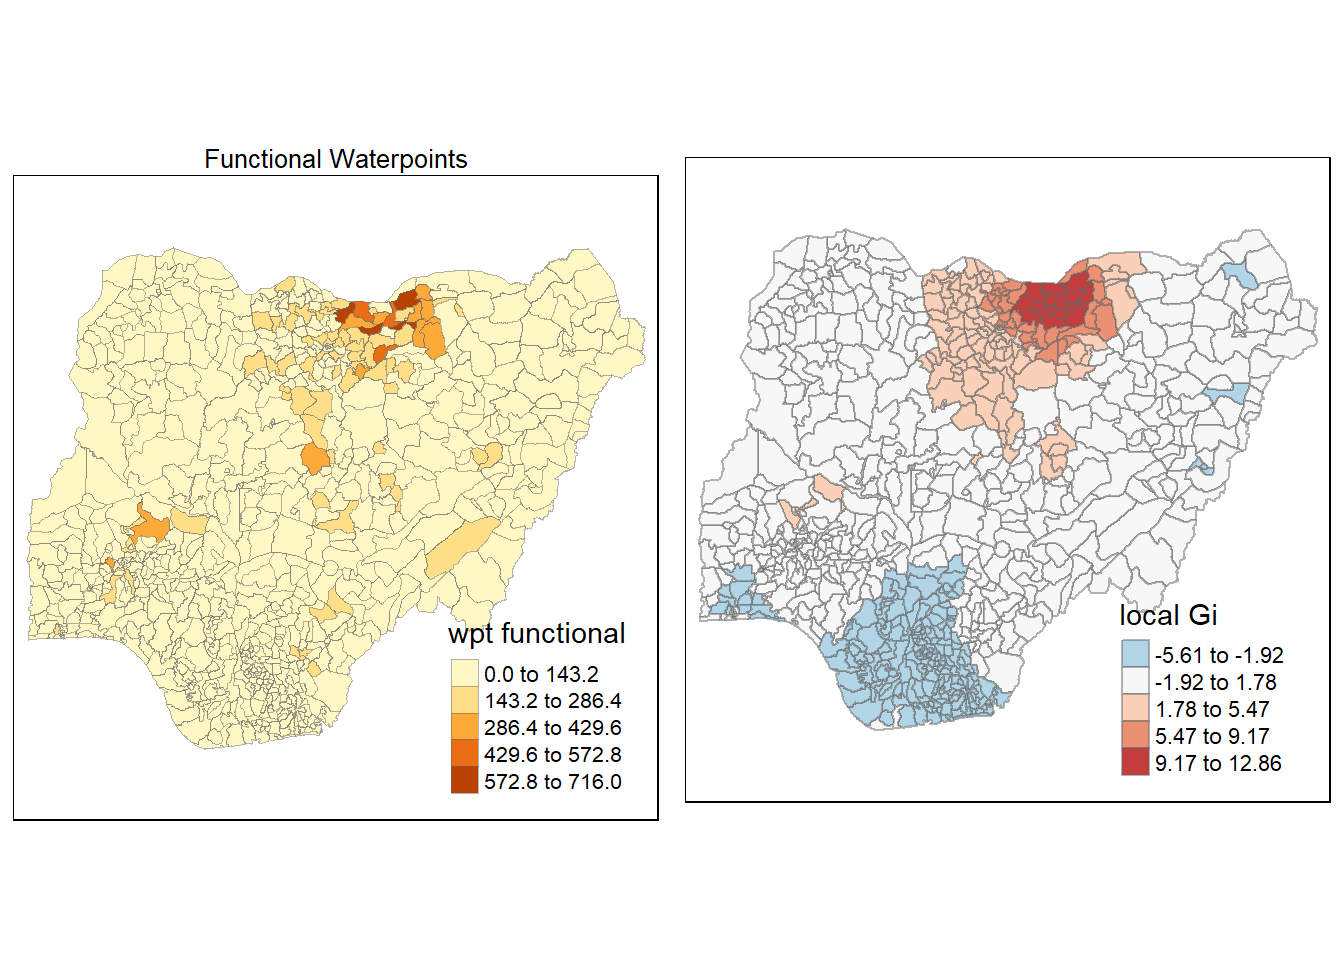
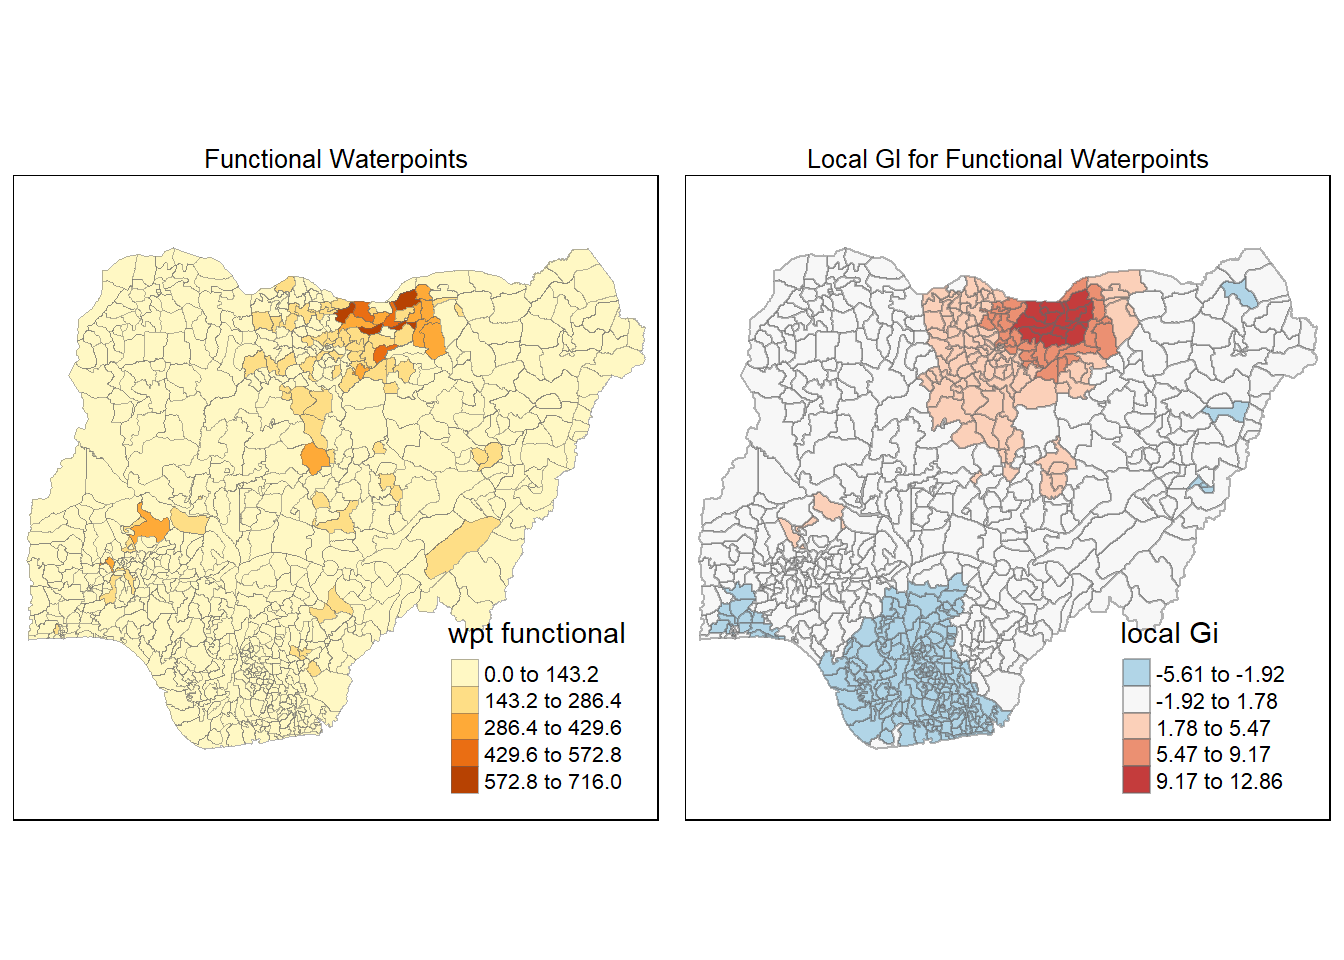
added data section to reflect source of data

Changed region(s): [[0.5, 0.25, 1.0, 0.8438], [0.5938, 0.1562, 0.9062, 0.1875]]

diff --git a/_site/Take-home_Ex/Take-home_Ex1.html b/_site/Take-home_Ex/Take-home_Ex1.html
@@ -200,9 +200,16 @@ code span.wa { color: #60a0b0; font-weight: bold; font-style: italic; } /* Warni
     <h2 id="toc-title">On this page</h2>
    
   <ul>
-  <li><a href="#overview" id="toc-overview" class="nav-link active" data-scroll-target="#overview">1.1 Overview</a></li>
+  <li><a href="#overview" id="toc-overview" class="nav-link active" data-scroll-target="#overview">1.1 Overview</a>
+  <ul class="collapse">
+  <li><a href="#the-data" id="toc-the-data" class="nav-link" data-scroll-target="#the-data">1.1.1 The Data</a></li>
+  <li><a href="#the-task" id="toc-the-task" class="nav-link" data-scroll-target="#the-task"><strong>1.1.2 The Task</strong></a></li>
+  <li><a href="#thematic-mapping" id="toc-thematic-mapping" class="nav-link" data-scroll-target="#thematic-mapping"><strong>1.1.3 Thematic Mapping</strong></a></li>
+  <li><a href="#analytical-mapping" id="toc-analytical-mapping" class="nav-link" data-scroll-target="#analytical-mapping"><strong>1.1.4 Analytical Mapping</strong></a></li>
+  <li><a href="#grading-criteria" id="toc-grading-criteria" class="nav-link" data-scroll-target="#grading-criteria"><strong>1.1.5 Grading Criteria</strong></a></li>
+  </ul></li>
   <li><a href="#getting-started" id="toc-getting-started" class="nav-link" data-scroll-target="#getting-started">1.2 Getting Started</a></li>
-  <li><a href="#importing-geospatial-data" id="toc-importing-geospatial-data" class="nav-link" data-scroll-target="#importing-geospatial-data">1.3 Importing Geospatial Data</a>
+  <li><a href="#downloading-and-importing-geospatial-data" id="toc-downloading-and-importing-geospatial-data" class="nav-link" data-scroll-target="#downloading-and-importing-geospatial-data">1.3 Downloading and Importing Geospatial Data</a>
   <ul class="collapse">
   <li><a href="#importing-water-point-geospatial-data" id="toc-importing-water-point-geospatial-data" class="nav-link" data-scroll-target="#importing-water-point-geospatial-data">1.3.1 Importing water point geospatial data</a></li>
   <li><a href="#importing-nigeria-lga-boundary-data" id="toc-importing-nigeria-lga-boundary-data" class="nav-link" data-scroll-target="#importing-nigeria-lga-boundary-data">1.3.2 Importing Nigeria LGA boundary data</a></li>
@@ -224,7 +231,7 @@ code span.wa { color: #60a0b0; font-weight: bold; font-style: italic; } /* Warni
   </ul></li>
   <li><a href="#proportion-of-functional-and-non-functional-water-point-at-lga-level." id="toc-proportion-of-functional-and-non-functional-water-point-at-lga-level." class="nav-link" data-scroll-target="#proportion-of-functional-and-non-functional-water-point-at-lga-level.">2 Proportion of functional and non-functional water point at LGA level.</a></li>
   <li><a href="#visualizing-the-spatial-distribution-of-water-points" id="toc-visualizing-the-spatial-distribution-of-water-points" class="nav-link" data-scroll-target="#visualizing-the-spatial-distribution-of-water-points">3 Visualizing the spatial distribution of water points</a></li>
-  <li><a href="#thematic-mapping" id="toc-thematic-mapping" class="nav-link" data-scroll-target="#thematic-mapping">3.1 Thematic Mapping</a></li>
+  <li><a href="#thematic-mapping-1" id="toc-thematic-mapping-1" class="nav-link" data-scroll-target="#thematic-mapping-1">3.1 Thematic Mapping</a></li>
   <li><a href="#global-spatial-autocorrelation" id="toc-global-spatial-autocorrelation" class="nav-link" data-scroll-target="#global-spatial-autocorrelation">4.4 Global Spatial Autocorrelation</a>
   <ul class="collapse">
   <li><a href="#computing-contiguity-spatial-weights" id="toc-computing-contiguity-spatial-weights" class="nav-link" data-scroll-target="#computing-contiguity-spatial-weights">4.4.1 Computing Contiguity Spatial Weights</a></li>
@@ -288,7 +295,52 @@ code span.wa { color: #60a0b0; font-weight: bold; font-style: italic; } /* Warni
 
 <section id="overview" class="level2">
 <h2 class="anchored" data-anchor-id="overview">1.1 Overview</h2>
-<p>Geospatial analytics hold tremendous potential to address complex problems facing society. In this study, you are tasked to apply appropriate global and local measures of spatial Association techniques to reveals the spatial patterns of Not Functional water points. For the purpose of this study, Nigeria will be used as the study country.</p>
+<p>Geospatial analytics hold tremendous potential to address complex problems facing society. In this study, you are tasked to apply appropriate global and local measures of spatial Association techniques to reveals the spatial patterns of Functional &amp; Not Functional water points. For the purpose of this study, Nigeria will be used as the study country.</p>
+<section id="the-data" class="level3">
+<h3 class="anchored" data-anchor-id="the-data">1.1.1 The Data</h3>
+<section id="apstial-data" class="level4">
+<h4 class="anchored" data-anchor-id="apstial-data">1.1.1.1 Apstial data</h4>
+<p>For the purpose of this assignment, data from <a href="https://www.waterpointdata.org/access-data/">WPdx Global Data Repositories</a> will be used. There are two versions of the data. They are: WPdx-Basic and WPdx+. You are required to use WPdx+ data set. We will rename this file to “geo_export”.</p>
+</section>
+<section id="geospatial-data" class="level4">
+<h4 class="anchored" data-anchor-id="geospatial-data">1.1.1.2 Geospatial data</h4>
+<p>Nigeria Level-2 Administrative Boundary (also known as Local Government Area) polygon features GIS data will be used in this take-home exercise. The data can be downloaded either from The <a href="https://data.humdata.org/">Humanitarian Data Exchange</a> portal or <a href="https://www.geoboundaries.org/">geoBoundaries</a>. We will use the file “nga_polnda_adm2_1m_salb”.</p>
+</section>
+</section>
+<section id="the-task" class="level3">
+<h3 class="anchored" data-anchor-id="the-task"><strong>1.1.2 The Task</strong></h3>
+<p>The specific tasks of this take-home exercise are as follows:</p>
+<ul>
+<li><p>Using appropriate sf method, import the shapefile into R and save it in a simple feature data frame format. Note that there are three Projected Coordinate Systems of Nigeria, they are: EPSG: 26391, 26392, and 26303. You can use any one of them.</p></li>
+<li><p>Using appropriate tidyr and dplyr methods, derive the proportion of functional and non-functional water point at LGA level.</p></li>
+<li><p>Combining the geospatial and aspatial data frame into simple feature data frame.</p></li>
+<li><p>Performing outliers/clusters analysis by using appropriate local measures of spatial association methods.</p></li>
+<li><p>Performing hotspot areas analysis by using appropriate local measures of spatial association methods.</p></li>
+</ul>
+</section>
+<section id="thematic-mapping" class="level3">
+<h3 class="anchored" data-anchor-id="thematic-mapping"><strong>1.1.3 Thematic Mapping</strong></h3>
+<ul>
+<li>Plot maps to show the spatial distribution of functional and non-functional water point rate at LGA level by using appropriate thematic mapping technique provided by tmap package.</li>
+</ul>
+</section>
+<section id="analytical-mapping" class="level3">
+<h3 class="anchored" data-anchor-id="analytical-mapping"><strong>1.1.4 Analytical Mapping</strong></h3>
+<ul>
+<li>Plot hotspot areas and outliers/clusters maps of functional and non-functional water point rate at LGA level by using appropriate thematic mapping technique provided by tmap package.</li>
+</ul>
+</section>
+<section id="grading-criteria" class="level3">
+<h3 class="anchored" data-anchor-id="grading-criteria"><strong>1.1.5 Grading Criteria</strong></h3>
+<p>This exercise will be graded by using the following criteria:</p>
+<ul>
+<li><p><strong>Geospatial Data Wrangling (20 marks):</strong> This is an important aspect of geospatial analytics. You will be assessed on your ability to employ appropriate R functions from various R packages specifically designed for modern data science such as readr, tidyverse (tidyr, dplyr, ggplot2), sf just to mention a few of them, to perform the entire geospatial data wrangling processes, including. This is not limited to data import, data extraction, data cleaning and data transformation. Besides assessing your ability to use the R functions, this criterion also includes your ability to clean and derive appropriate variables to meet the analysis need. (Warning: All data are like vast grassland full of land mines. Your job is to clear those mines and not to step on them).</p></li>
+<li><p><strong>Geospatial Analysis (25 marks):</strong> In this exercise, you are expected to use the appropriate thematic and analytics mapping techniques and R functions introduced in class to analyse the geospatial data prepared. You will be assessed on your ability to derive analytical maps by using appropriate rate mapping techniques.</p></li>
+<li><p><strong>Geovisualisation and Geocommunication (25 marks):</strong> In this section, you will be assessed on your ability to communicate the complex spatial statistics results in business friendly visual representations. This course is geospatial centric, hence, it is important for you to demonstrate your competency in using appropriate. geovisualisation techniques to reveal and communicate the findings of your analysis.</p></li>
+<li><p><strong>Reproducibility (20 marks):</strong> This is an important learning outcome of this exercise. You will be assessed on your ability to provide a comprehensive documentation of the analysis procedures in the form of code chunks of Markdown. It is important to note that it is not enough by merely providing the code chunk without any explanation on the purpose and R function(s) used.</p></li>
+<li><p><strong>Bonus (10 marks):</strong> Demonstrate your ability to employ methods beyond what you had learned in class to gain insights from the data. The methods used must be geospatial in nature.</p></li>
+</ul>
+</section>
 </section>
 <section id="getting-started" class="level2">
 <h2 class="anchored" data-anchor-id="getting-started">1.2 Getting Started</h2>
@@ -304,8 +356,8 @@ code span.wa { color: #60a0b0; font-weight: bold; font-style: italic; } /* Warni
 <div class="sourceCode cell-code" id="cb1"><pre class="sourceCode r code-with-copy"><code class="sourceCode r"><span id="cb1-1"><a href="#cb1-1" aria-hidden="true" tabindex="-1"></a>pacman<span class="sc">::</span><span class="fu">p_load</span>(sf, spdep, tmap, tidyverse, tmap, funModeling)</span></code><button title="Copy to Clipboard" class="code-copy-button"><i class="bi"></i></button></pre></div>
 </div>
 </section>
-<section id="importing-geospatial-data" class="level2">
-<h2 class="anchored" data-anchor-id="importing-geospatial-data">1.3 Importing Geospatial Data</h2>
+<section id="downloading-and-importing-geospatial-data" class="level2">
+<h2 class="anchored" data-anchor-id="downloading-and-importing-geospatial-data">1.3 Downloading and Importing Geospatial Data</h2>
 <p>In this in-class data, two geospatial data sets will be used, they are:</p>
 <ul>
 <li><p>geo_export</p></li>
@@ -580,8 +632,8 @@ First 10 features:
 <section id="visualizing-the-spatial-distribution-of-water-points" class="level2">
 <h2 class="anchored" data-anchor-id="visualizing-the-spatial-distribution-of-water-points">3 Visualizing the spatial distribution of water points</h2>
 </section>
-<section id="thematic-mapping" class="level2">
-<h2 class="anchored" data-anchor-id="thematic-mapping">3.1 Thematic Mapping</h2>
+<section id="thematic-mapping-1" class="level2">
+<h2 class="anchored" data-anchor-id="thematic-mapping-1">3.1 Thematic Mapping</h2>
 <p>Maps are plotted to show the spatial distribution of functional and non-functional water point rate at LGA level by using appropriate thematic mapping technique provided by tmap package.</p>
 <p>To draw a high quality cartographic choropleth map as shown in the figure below, <strong>tmap</strong>’s drawing elements should be used.</p>
 <p>In the code chunk below, the following <em>tmap’s drawing elements are used:</em></p>
@@ -3620,9 +3672,14 @@ attr(,"class")
 <span id="cb110-5"><a href="#cb110-5" aria-hidden="true" tabindex="-1"></a>          <span class="at">style =</span> <span class="st">"equal"</span>,</span>
 <span id="cb110-6"><a href="#cb110-6" aria-hidden="true" tabindex="-1"></a>          <span class="at">palette=</span><span class="st">"-RdBu"</span>,</span>
 <span id="cb110-7"><a href="#cb110-7" aria-hidden="true" tabindex="-1"></a>          <span class="at">title =</span> <span class="st">"local Gi"</span>) <span class="sc">+</span></span>
-<span id="cb110-8"><a href="#cb110-8" aria-hidden="true" tabindex="-1"></a>  <span class="fu">tm_borders</span>(<span class="at">alpha =</span> <span class="fl">0.5</span>)</span>
-<span id="cb110-9"><a href="#cb110-9" aria-hidden="true" tabindex="-1"></a></span>
-<span id="cb110-10"><a href="#cb110-10" aria-hidden="true" tabindex="-1"></a><span class="fu">tmap_arrange</span>(f_wpt_plot, Gimap, <span class="at">asp=</span><span class="dv">1</span>, <span class="at">ncol=</span><span class="dv">2</span>)</span></code><button title="Copy to Clipboard" class="code-copy-button"><i class="bi"></i></button></pre></div>
+<span id="cb110-8"><a href="#cb110-8" aria-hidden="true" tabindex="-1"></a>  <span class="fu">tm_borders</span>(<span class="at">alpha =</span> <span class="fl">0.5</span>) <span class="sc">+</span></span>
+<span id="cb110-9"><a href="#cb110-9" aria-hidden="true" tabindex="-1"></a>        <span class="fu">tm_layout</span>(<span class="at">main.title =</span> <span class="st">"Local GI for Functional Waterpoints"</span>,</span>
+<span id="cb110-10"><a href="#cb110-10" aria-hidden="true" tabindex="-1"></a>              <span class="at">main.title.position =</span> <span class="st">"center"</span>,</span>
+<span id="cb110-11"><a href="#cb110-11" aria-hidden="true" tabindex="-1"></a>              <span class="at">main.title.size =</span> <span class="fl">0.8</span>,</span>
+<span id="cb110-12"><a href="#cb110-12" aria-hidden="true" tabindex="-1"></a>              <span class="at">legend.height =</span> <span class="fl">0.4</span>,</span>
+<span id="cb110-13"><a href="#cb110-13" aria-hidden="true" tabindex="-1"></a>              <span class="at">legend.width =</span> <span class="fl">0.3</span>)</span>
+<span id="cb110-14"><a href="#cb110-14" aria-hidden="true" tabindex="-1"></a></span>
+<span id="cb110-15"><a href="#cb110-15" aria-hidden="true" tabindex="-1"></a><span class="fu">tmap_arrange</span>(f_wpt_plot, Gimap, <span class="at">asp=</span><span class="dv">1</span>, <span class="at">ncol=</span><span class="dv">2</span>)</span></code><button title="Copy to Clipboard" class="code-copy-button"><i class="bi"></i></button></pre></div>
 <div class="cell-output-display">
 <p><img src="Take-home_Ex1_files/figure-html/unnamed-chunk-82-1.png" class="img-fluid" width="672"></p>
 </div>
@@ -3638,9 +3695,15 @@ attr(,"class")
 <span id="cb111-5"><a href="#cb111-5" aria-hidden="true" tabindex="-1"></a>          <span class="at">style =</span> <span class="st">"equal"</span>,</span>
 <span id="cb111-6"><a href="#cb111-6" aria-hidden="true" tabindex="-1"></a>          <span class="at">palette=</span><span class="st">"-RdBu"</span>,</span>
 <span id="cb111-7"><a href="#cb111-7" aria-hidden="true" tabindex="-1"></a>          <span class="at">title =</span> <span class="st">"local Gi"</span>) <span class="sc">+</span></span>
-<span id="cb111-8"><a href="#cb111-8" aria-hidden="true" tabindex="-1"></a>  <span class="fu">tm_borders</span>(<span class="at">alpha =</span> <span class="fl">0.5</span>)</span>
-<span id="cb111-9"><a href="#cb111-9" aria-hidden="true" tabindex="-1"></a></span>
-<span id="cb111-10"><a href="#cb111-10" aria-hidden="true" tabindex="-1"></a><span class="fu">tmap_arrange</span>(nf_wpt_plot, Gimap, <span class="at">asp=</span><span class="dv">1</span>, <span class="at">ncol=</span><span class="dv">2</span>)</span></code><button title="Copy to Clipboard" class="code-copy-button"><i class="bi"></i></button></pre></div>
+<span id="cb111-8"><a href="#cb111-8" aria-hidden="true" tabindex="-1"></a>  <span class="fu">tm_borders</span>(<span class="at">alpha =</span> <span class="fl">0.5</span>) <span class="sc">+</span></span>
+<span id="cb111-9"><a href="#cb111-9" aria-hidden="true" tabindex="-1"></a>    <span class="fu">tm_layout</span>(<span class="at">main.title =</span> <span class="st">"Local GI for Non-functional Waterpoints"</span>,</span>
+<span id="cb111-10"><a href="#cb111-10" aria-hidden="true" tabindex="-1"></a>              <span class="at">main.title.position =</span> <span class="st">"center"</span>,</span>
+<span id="cb111-11"><a href="#cb111-11" aria-hidden="true" tabindex="-1"></a>              <span class="at">main.title.size =</span> <span class="fl">0.8</span>,</span>
+<span id="cb111-12"><a href="#cb111-12" aria-hidden="true" tabindex="-1"></a>              <span class="at">legend.height =</span> <span class="fl">0.4</span>,</span>
+<span id="cb111-13"><a href="#cb111-13" aria-hidden="true" tabindex="-1"></a>              <span class="at">legend.width =</span> <span class="fl">0.3</span>)</span>
+<span id="cb111-14"><a href="#cb111-14" aria-hidden="true" tabindex="-1"></a>    </span>
+<span id="cb111-15"><a href="#cb111-15" aria-hidden="true" tabindex="-1"></a></span>
+<span id="cb111-16"><a href="#cb111-16" aria-hidden="true" tabindex="-1"></a><span class="fu">tmap_arrange</span>(nf_wpt_plot, Gimap, <span class="at">asp=</span><span class="dv">1</span>, <span class="at">ncol=</span><span class="dv">2</span>)</span></code><button title="Copy to Clipboard" class="code-copy-button"><i class="bi"></i></button></pre></div>
 <div class="cell-output-display">
 <p><img src="Take-home_Ex1_files/figure-html/unnamed-chunk-83-1.png" class="img-fluid" width="672"></p>
 </div>
